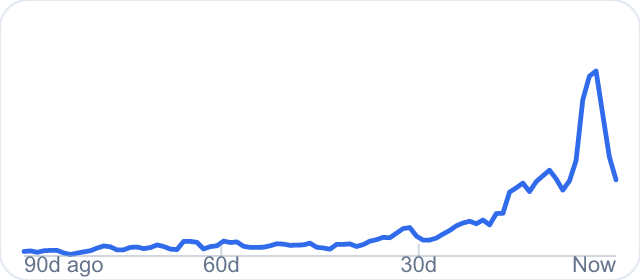
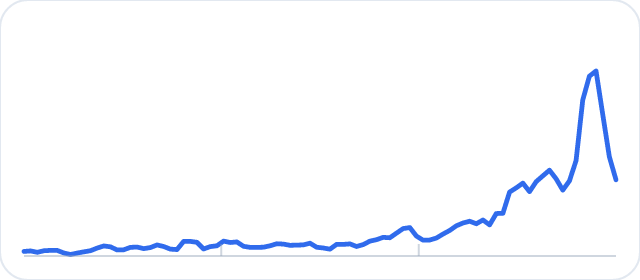
preview: curve PNG without baked-in axis labels; show HTML x-axis

diff --git a/preview/index.html b/preview/index.html
@@ -32,7 +32,7 @@ small{color:var(--muted);}
 .chartWrap{height:200px;border:1px solid rgba(226,232,240,.9);border-radius:14px;background:linear-gradient(180deg,#ffffff,#fbfdff);display:flex;flex-direction:column;align-items:stretch;justify-content:stretch;overflow:hidden;margin:6px 0 10px;}
 .chartWrap svg{width:100%;height:100%;flex:1;}
 .chartWrap svg path{stroke-width:3.6 !important;}
-.xaxis{display:none;} /* axis labels are already baked into curve PNG */
+.xaxis{display:flex;justify-content:space-between;gap:8px;padding:6px 10px 0;color:var(--muted);font-size:11px;}
 .backTitle{font-weight:800;font-size:13px;letter-spacing:-0.01em;margin:6px 0;}
 .hint{margin-top:auto;color:rgba(100,116,139,.85);font-size:11px;padding-top:8px;}
 
